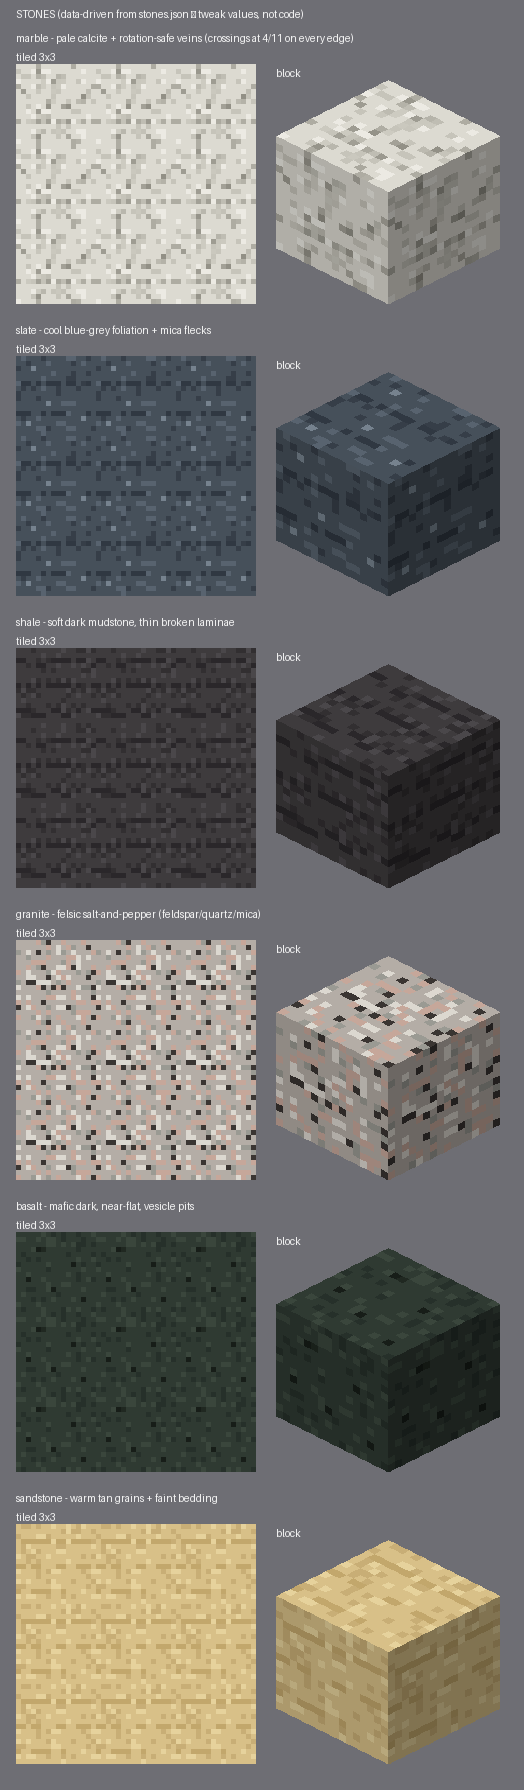
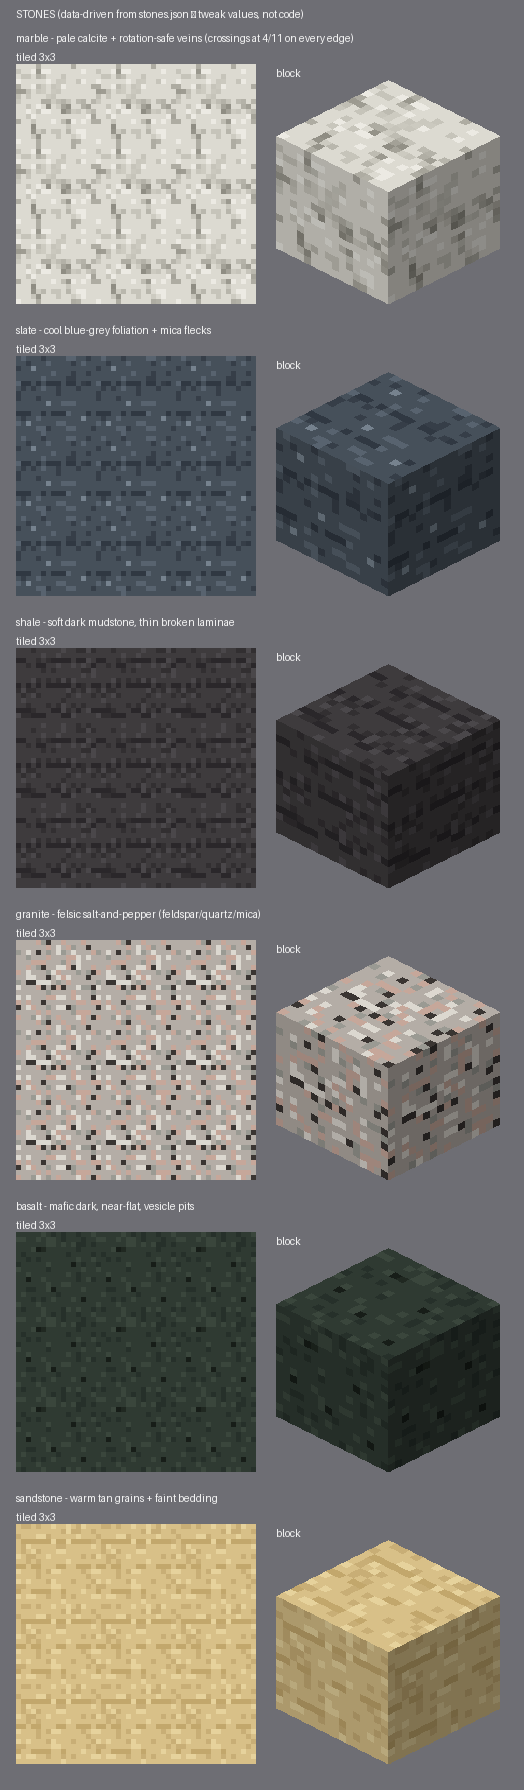
gallery: curvy (multi-harmonic) pinwheel marble veins — less straight, less grid

diff --git a/gallery/2026-07-21-stone-practice/src/stonegen.py b/gallery/2026-07-21-stone-practice/src/stonegen.py
@@ -121,10 +121,17 @@ def apply_anchor_veins(px, spec):
         dx, dy = bx - ax, by - ay
         length = math.hypot(dx, dy) or 1.0
         pxu, pyu = -dy / length, dx / length            # perpendicular unit
-        steps = int(max(abs(dx), abs(dy)) * 2) + 1
+        # per-vein curve: sum of sin harmonics (all zero at f=0,1 → endpoints stay pinned), random
+        # amplitudes+signs per vein so no two veins share a shape and none read as a straight line.
+        c1 = 0.7 + 0.6 * h2(pi, 1, seed)
+        c2 = 1.4 * (h2(pi, 2, seed) - 0.5)
+        c3 = 0.9 * (h2(pi, 3, seed) - 0.5)
+        steps = (int(length) + 1) * 3
         for t in range(steps + 1):
             f = t / steps
-            wob = amp * math.sin(f * math.pi) * (0.6 + 0.8 * h2(pi, t, seed))  # 0 at both ends
+            sh = c1 * math.sin(f * math.pi) + c2 * math.sin(2 * f * math.pi) + c3 * math.sin(3 * f * math.pi)
+            jit = 0.4 * (h2(pi, t, seed + 9) - 0.5) * math.sin(f * math.pi)   # pixel wiggle, 0 at ends
+            wob = amp * (sh + jit)
             xi = int(round(ax + dx * f + pxu * wob)) % N
             yi = int(round(ay + dy * f + pyu * wob)) % N
             if 0 < f < 1 and h2(xi, yi, seed + 3) > dot:

diff --git a/gallery/2026-07-21-stone-practice/NOTES.md b/gallery/2026-07-21-stone-practice/NOTES.md
@@ -66,3 +66,11 @@ Each vein pixel is now a continuous lerp(soft, core, d) where d = hash**dark_bia
 per pixel (mostly faint, few dark), instead of a few fixed tones. Kills the uniform-marker read; the
 vein fades in and out along its length like real marble. Value-driven: soft/core = light/dark ends,
 dark_bias (>1 keeps it mostly light), dot = gaps. Crossings pinned to the mid tone so rotation aligns.
+
+## r7 — curvy veins, less grid
+Two fixes for the straight-line/grid look: (1) each vein now curves via a per-vein sum of sin
+harmonics (c1·sin πf + c2·sin 2πf + c3·sin 3πf, random amplitudes/signs, all zero at f=0,1 so
+endpoints stay pinned) + a small per-pixel jitter — no two veins share a shape, none read straight;
+(2) pairs rerouted as a PINWHEEL (each edge → the next edge CW: T0→R1, R0→B1, B0→L1, L0→T1) instead
+of the symmetric cross, so the tile no longer stamps a regular X. amp bumped 2.3→2.8 for more bend.
+Rotation still aligns (crossings unchanged at 4/11). All value-driven.
